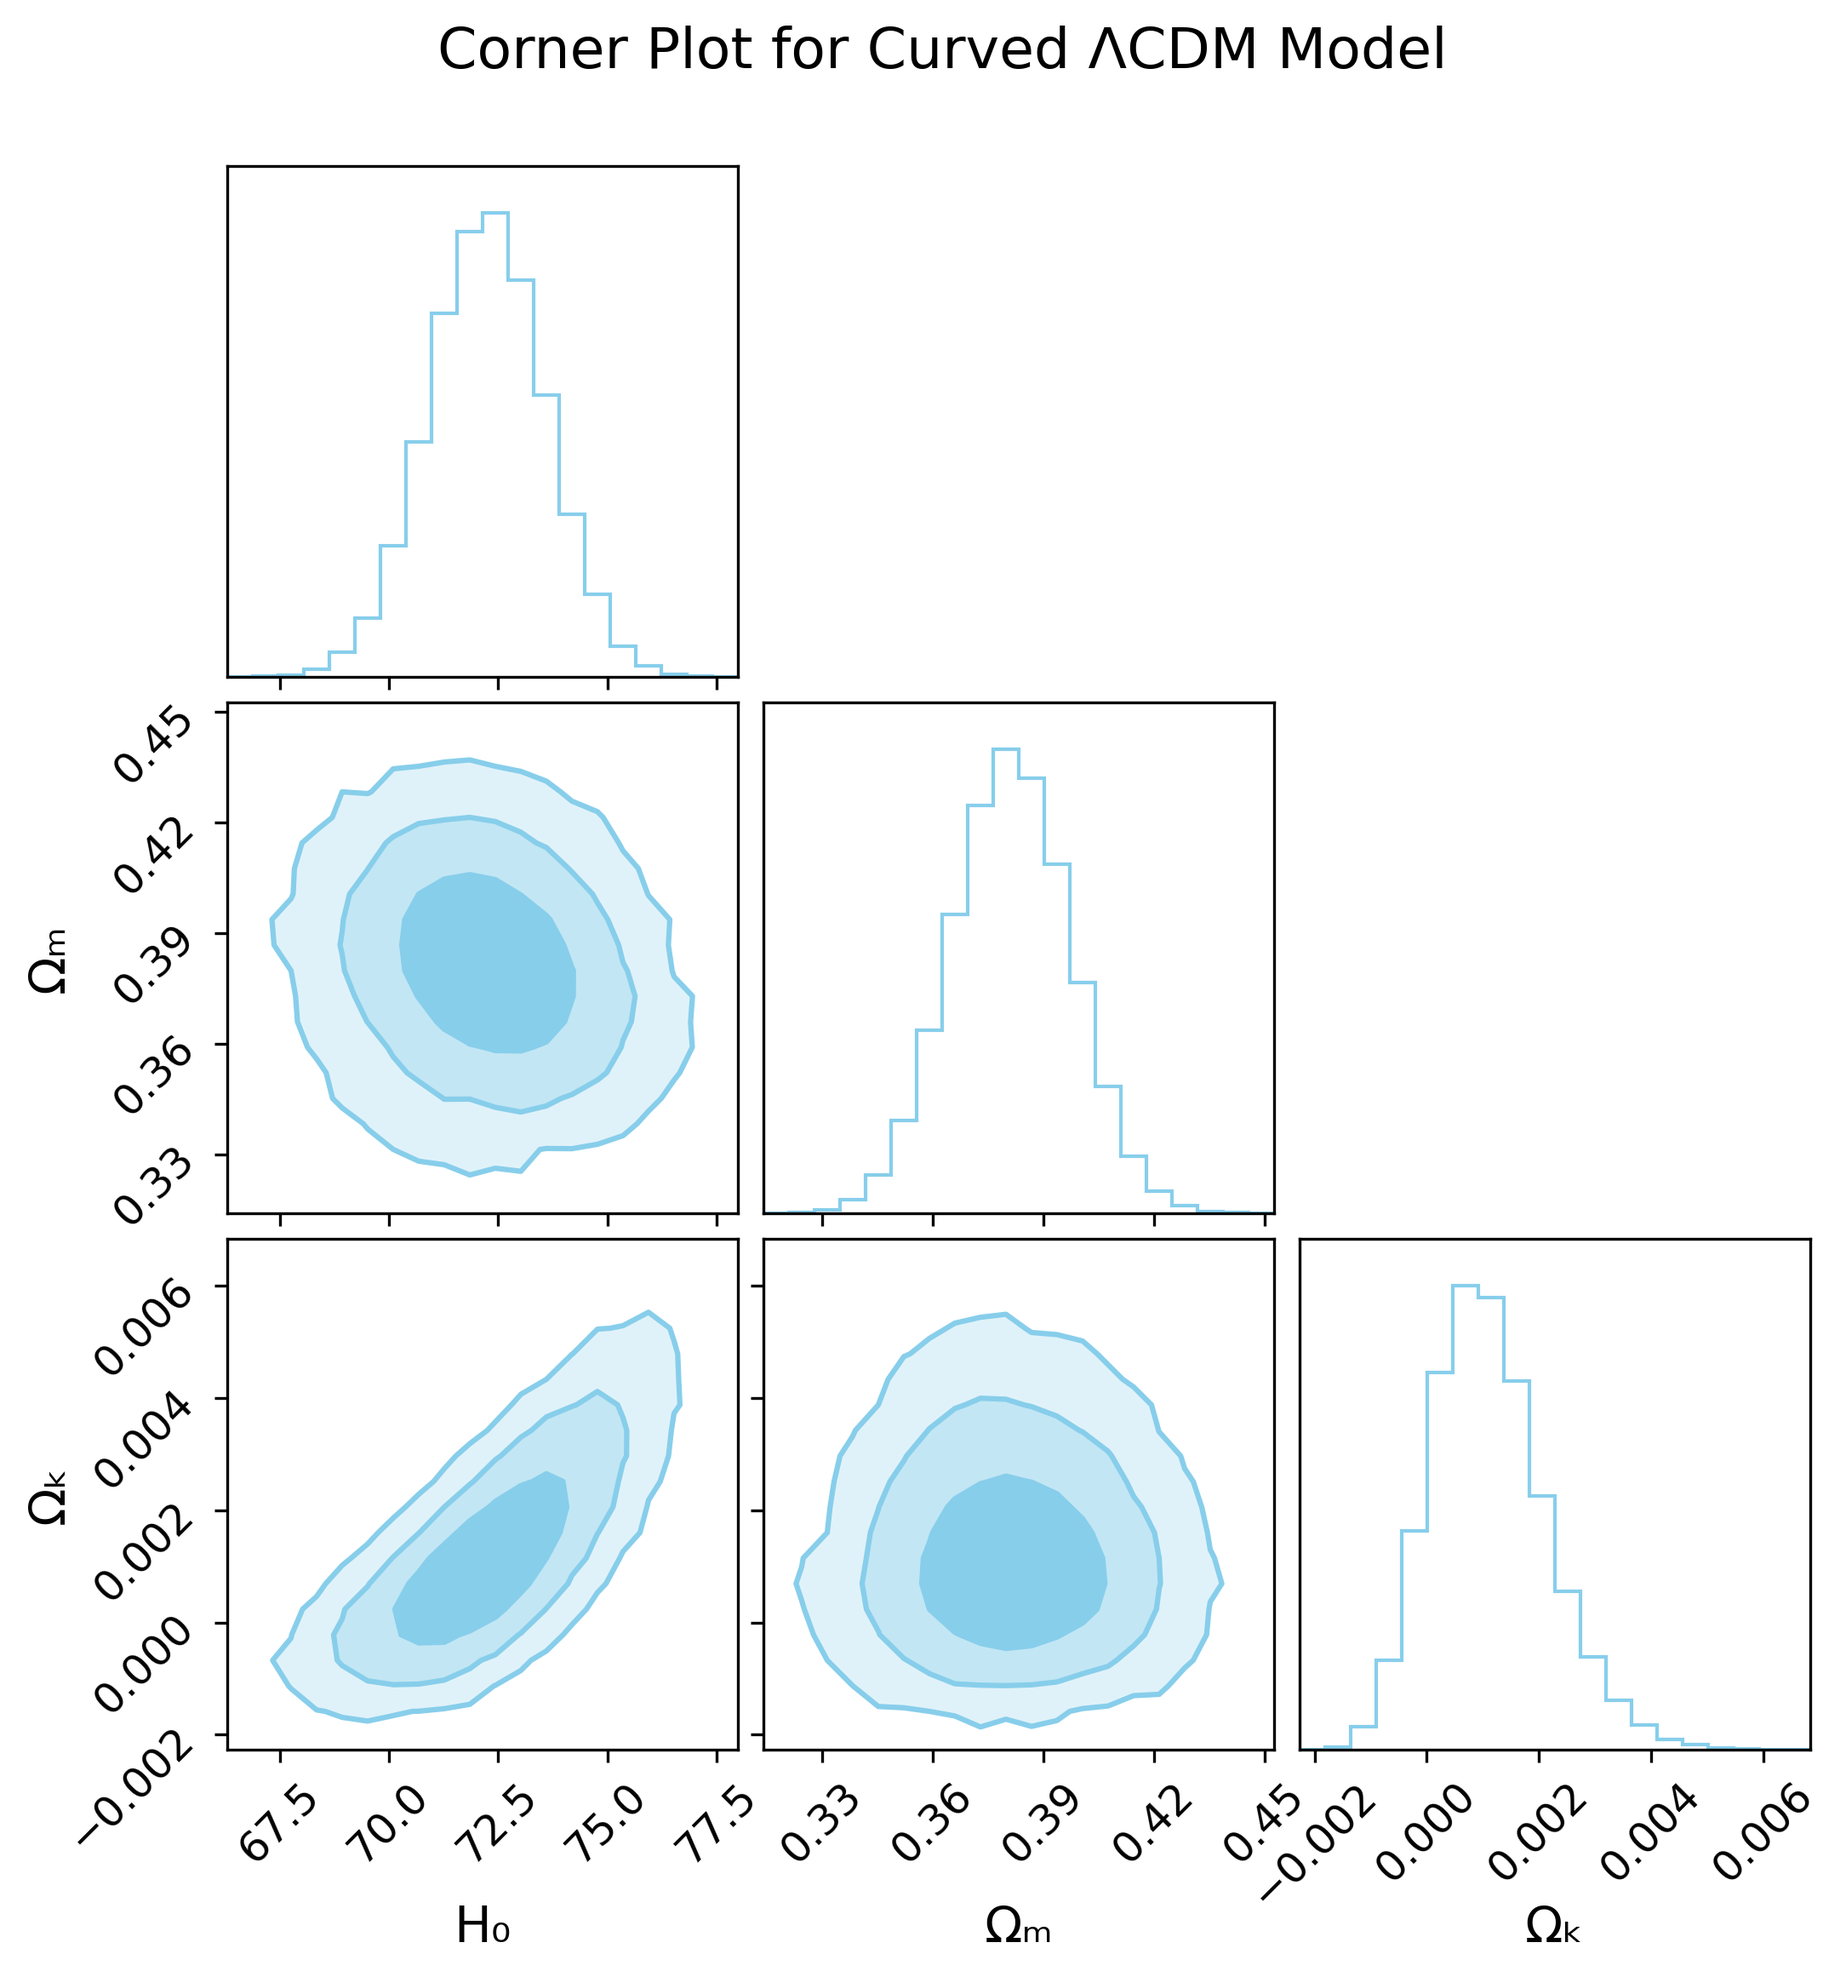
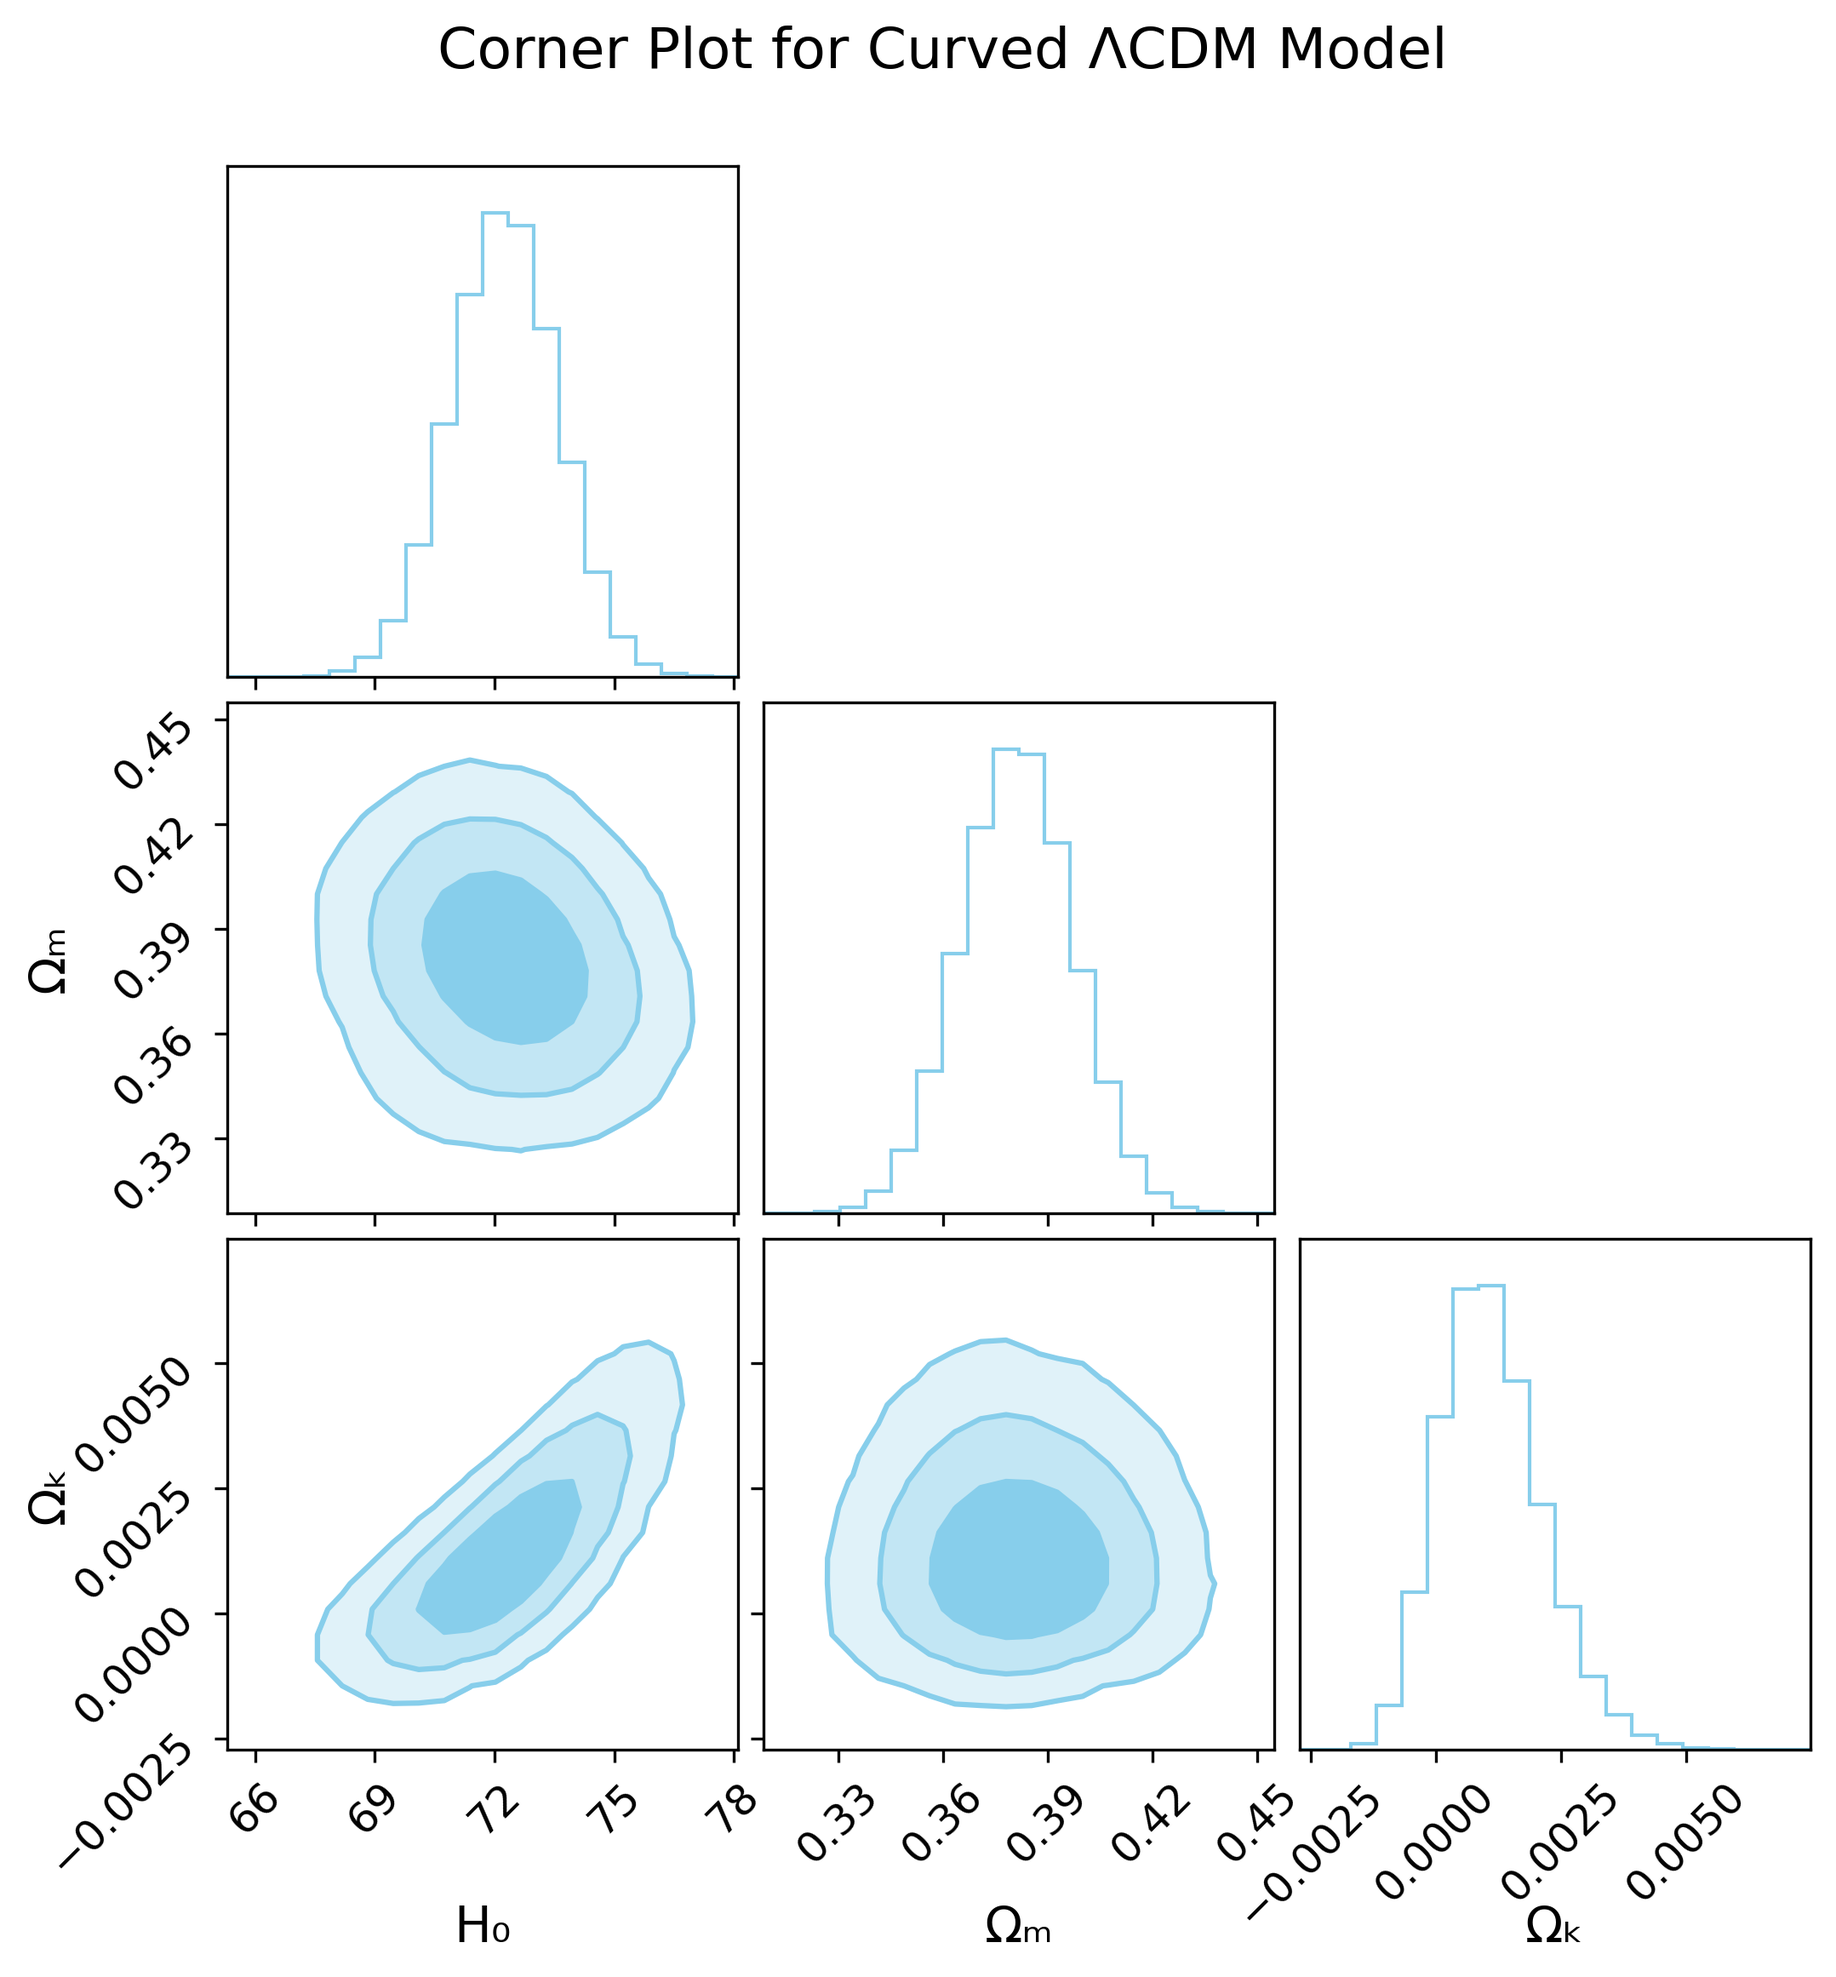
Tried autocorrelation

diff --git a/Supernova_project/sbi_cosmology.py b/Supernova_project/sbi_cosmology.py
@@ -39,7 +39,7 @@ class SBIConfig:
     
     # SBI settings
     NUM_SIMULATIONS = 10000
-    NUM_POSTERIOR_SAMPLES = 100000  # Increased for better posterior visualization
+    NUM_POSTERIOR_SAMPLES = 1000000  # Increased for better posterior visualization
     BATCH_SIZE = 128    
     # Physics constants
     C = 299792.458  # Speed of light in km/s
@@ -51,18 +51,14 @@ class SBIConfig:
     DATA_PATH = '/Users/yhra/Documents/Master/Semester_3/BATIP/Supernova_project/Data/'
     PLOT_PATH = '/Users/yhra/Documents/Master/Semester_3/BATIP/Supernova_project/Plots/'
     
-    # Neural network settings
-    EMBEDDING_DIM = 2
-    HIDDEN_FEATURES = 64
-    NUM_TRANSFORMS = 5
     
     EPSILON = 1e-5
-    DEVICE = torch.device("mps")
+    DEVICE = torch.device("cpu")
     
     # Parameter priors (mean, std)
     PARAM_PRIORS = {
         'flat': {
-            'H0': (70.0, 1.5),  # centered at 70 with std of 1.5
+            'H0': (70.0, 1.5),  # centered at 70 with std of 2.5
             'Om': (0.3, 0.05)   # centered at 0.3 with std of 0.05
         },
         'curved': {
@@ -409,17 +405,7 @@ class CosmologySBI:
                 ),
                 1
             )
-    
-    def create_embedding_net(self):
-        """Create an embedding network for the data"""
-        return nn.Sequential(
-            nn.Linear(len(self.z_obs), SBIConfig.HIDDEN_FEATURES),
-            nn.ReLU(),
-            nn.Linear(SBIConfig.HIDDEN_FEATURES, SBIConfig.HIDDEN_FEATURES),
-            nn.ReLU(),
-            nn.Linear(SBIConfig.HIDDEN_FEATURES, SBIConfig.EMBEDDING_DIM),
-        )
-    
+
     def train(self):
         """Train the neural network with covariance-aware likelihood"""
         set_seed(SBIConfig.RANDOM_SEED)  # Set seed before training
@@ -511,6 +497,85 @@ class CosmologySBI:
         plt.tight_layout()
         plt.savefig(f'{SBIConfig.PLOT_PATH}sbi_back_{self.simulator.model_type}_posteriors.png', dpi=300, bbox_inches='tight')
         plt.close()
+
+def plot_autocorrelation(samples, model_type):
+    """Calculate the autocorrelation length for each parameter"""
+    # Convert to numpy array if needed
+    if torch.is_tensor(samples):
+        samples = samples.numpy()
+    
+    # Number of parameters
+    n_params = samples.shape[1]
+    
+    # Create figure
+    fig, axes = plt.subplots(1, n_params, figsize=(5*n_params, 4))
+    if n_params == 1:
+        axes = [axes]
+    
+    # Parameter names
+    param_names = ['H₀', 'Ωₘ'] if model_type == "flat" else ['H₀', 'Ωₘ', 'Ωₖ']
+    
+    corr_lengths = []
+    # Calculate autocorrelation for each parameter
+    for i in range(n_params):
+        # Calculate autocorrelation length and function
+        corr_length, autocorr = autocorrelation_length(samples[:, i])
+        corr_lengths.append(corr_length)
+        
+        # Create lag array for plotting
+        lags = np.arange(len(autocorr))
+        
+        # Plot
+        axes[i].plot(lags, autocorr)
+        axes[i].axhline(y=np.exp(-1), color='r', linestyle='--', alpha=0.5, 
+                       label='e⁻¹ threshold')
+        if corr_length is not None:
+            axes[i].axvline(x=corr_length, color='g', linestyle='--', alpha=0.5,
+                          label=f'Correlation length: {corr_length}')
+        
+        axes[i].set_title(f'{param_names[i]}')
+        axes[i].set_xlabel('Lag')
+        axes[i].set_ylabel('Autocorrelation')
+        axes[i].legend()
+        
+        print(f"Correlation length for {param_names[i]}: {corr_length}")
+    
+    plt.tight_layout()
+    plt.savefig(f'{SBIConfig.PLOT_PATH}autocorrelation_{model_type}.png', 
+                dpi=300, bbox_inches='tight')
+    plt.close()
+    
+    # Return the maximum correlation length
+    max_corr_length = max(length for length in corr_lengths if length is not None)
+    return max_corr_length
+
+def autocorrelation_length(data):
+    """
+    Calculate the autocorrelation length of a given array.
+    
+    Parameters:
+    - data (array-like): Input array of numerical values.
+
+    Returns:
+    - corr_length (float): The correlation length where autocorrelation falls to e^-1.
+    - autocorr (np.ndarray): Autocorrelation values for each lag.
+    """
+    # Ensure input is a numpy array
+    data = np.asarray(data)
+    n = len(data)
+    
+    # Subtract the mean
+    data_mean = np.mean(data)
+    data -= data_mean
+    
+    # Compute the autocorrelation function
+    autocorr = np.correlate(data, data, mode='full')[n-1:] / (np.var(data) * n)
+    
+    # Find the correlation length (first lag where autocorr <= e^-1)
+    threshold = np.exp(-1)
+    corr_length = next((lag for lag, value in enumerate(autocorr) if value <= threshold), None)
+    
+    return corr_length, autocorr
 
 def plot_scientific_results(samples_flat=None, samples_curved=None, data_type="real"):
     """Create publication-quality plots of the results"""
@@ -731,7 +796,10 @@ if __name__ == "__main__":
         samples_dict[model_type] = sbi.sample_posterior()
 
         # back test the network
-        sbi.back_test_network()
+        # sbi.back_test_network()
+
+        # calculate the autocorrelation
+        # plot_autocorrelation(samples_dict[model_type], model_type)
     
     # Create final scientific plots
     print("\nCreating final visualization...")
